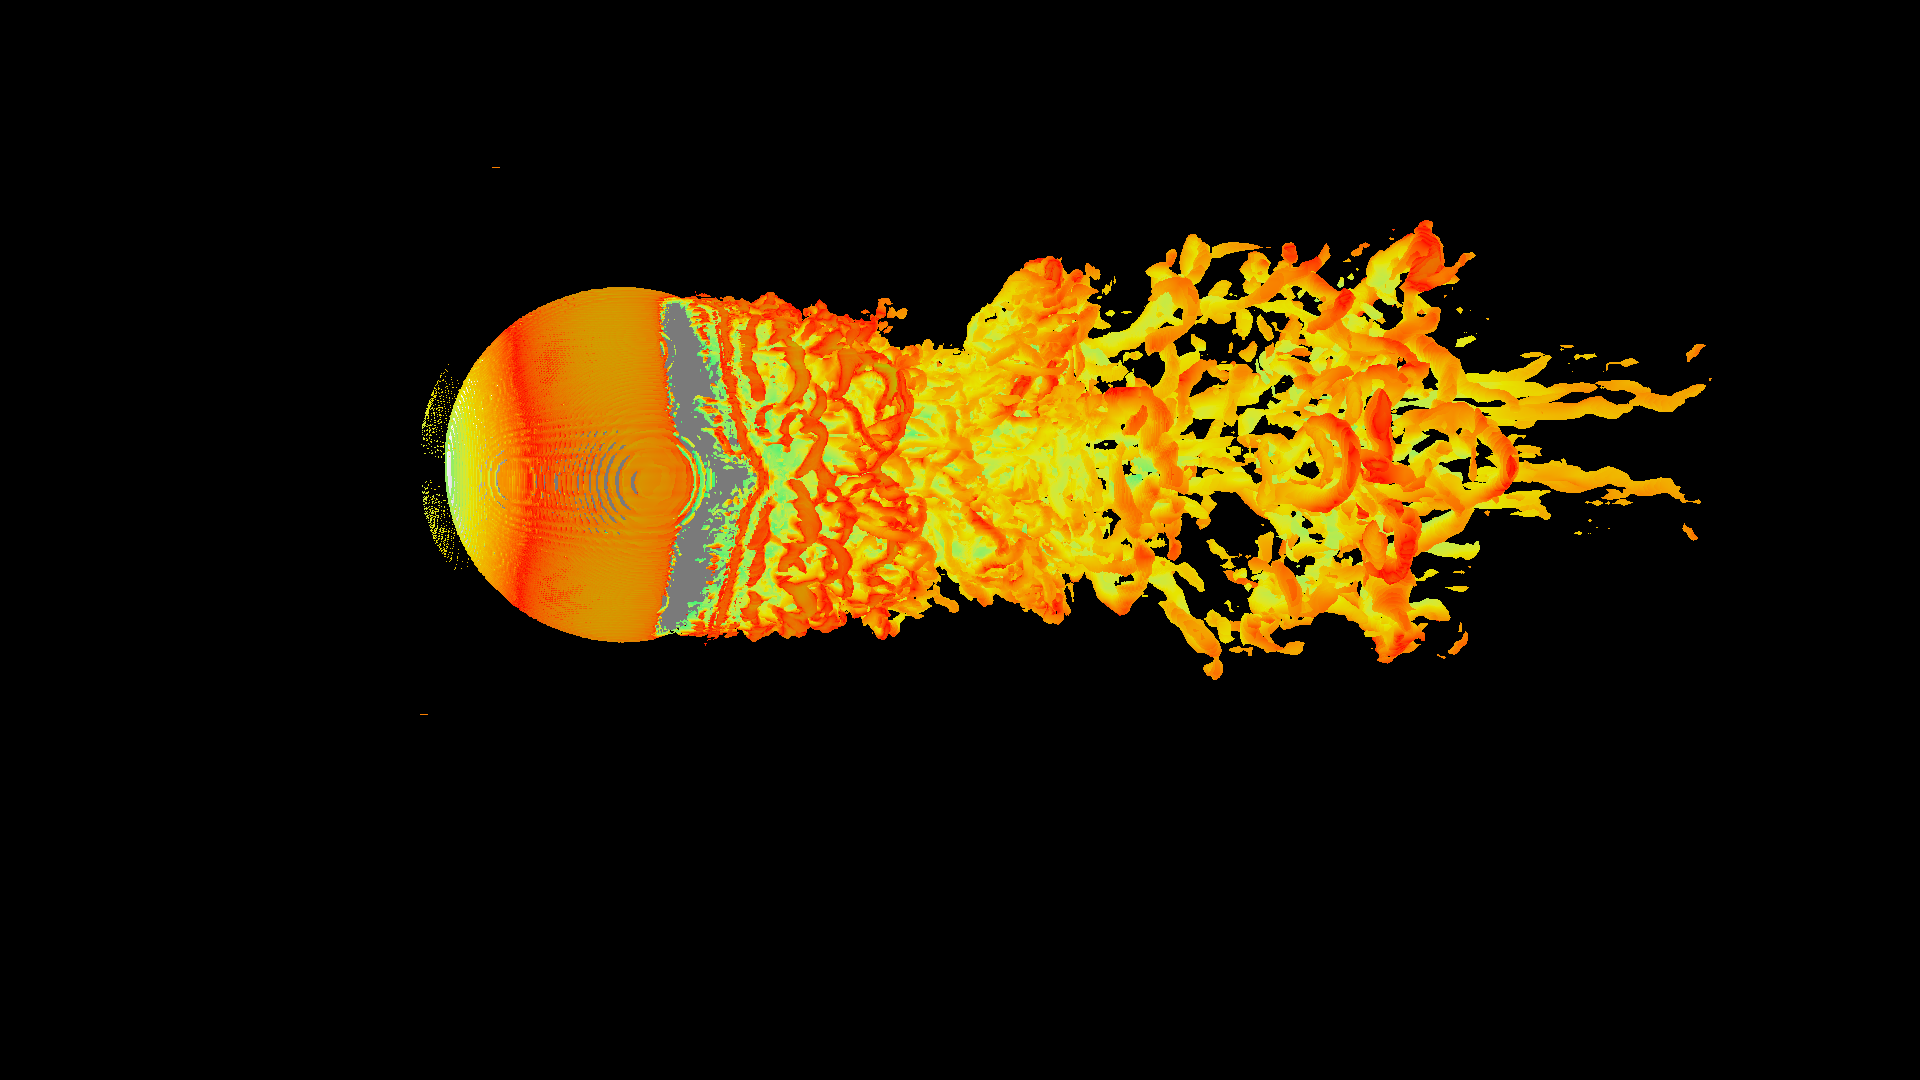
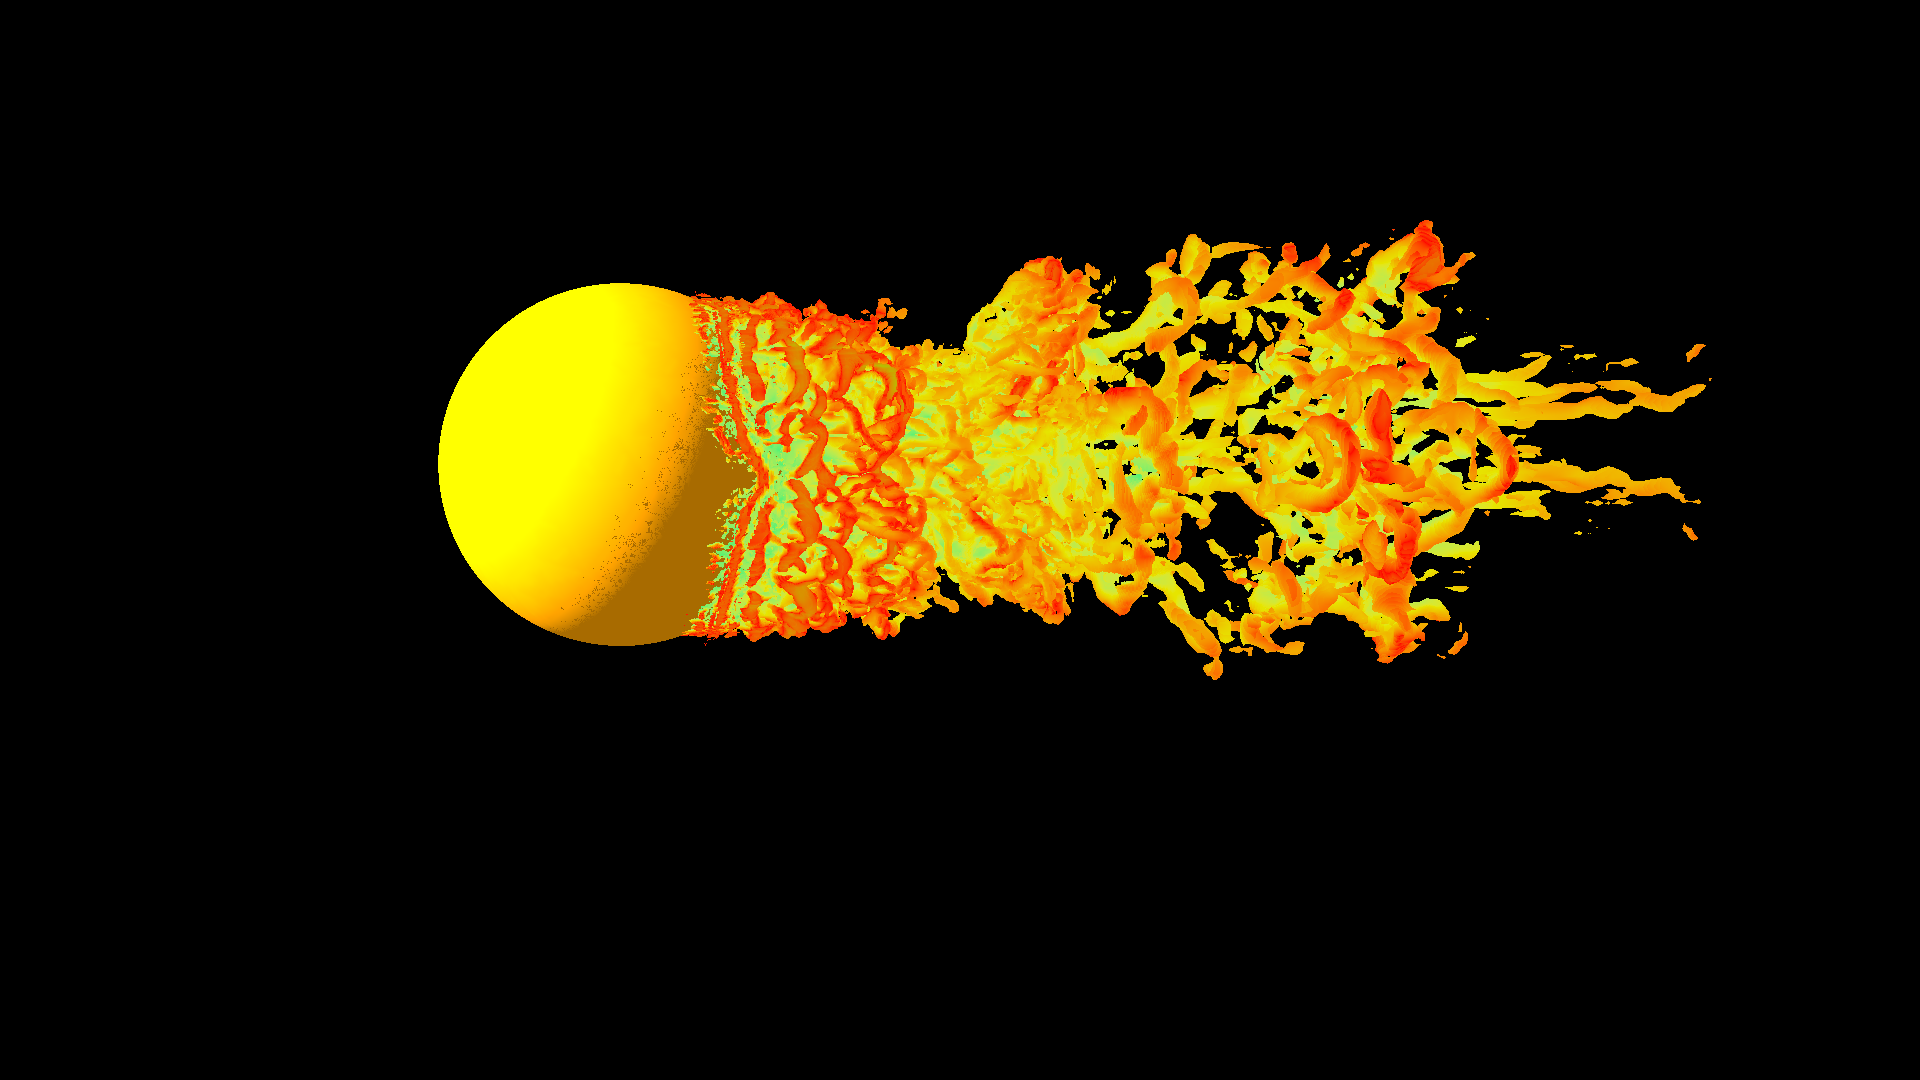
abing

Changed region(s): [[0.2188, 0.2444, 0.4062, 0.6111]]

diff --git a/src/integrator.cpp b/src/integrator.cpp
@@ -13,6 +13,8 @@ void Integrator::render() const {
         std::cout << grid.aabb.lower_bnd << " " << grid.aabb.upper_bnd << std::endl;
     }
     int cnt = 0;
+    scene->grids[0].aabb.adjustLow(Vec3f(5, 0, 0));
+    std::cout << 1 << std::endl;
 #pragma omp parallel for schedule(guided, 2), default(none), shared(cnt, resolution)
     for (int dx = 0; dx < resolution.x(); dx++) {
 #pragma omp atomic
@@ -27,7 +29,7 @@ void Integrator::render() const {
             if (scene->sphere.aabb.intersect(ray, t0, t1)) {
                 if (scene->sphere.intersect(ray, interaction)) {
                     t_max = interaction.dist;
-                    phongColor = radiance(ray, interaction);
+                    phongColor = radiance(ray, interaction, Vec3f{4, 1.5, 0});
                 }
             }
             if (scene->grids[0].aabb.intersect(ray, t0, t1)) {
@@ -36,6 +38,8 @@ void Integrator::render() const {
                 if (colorOpacity.second < 1 - 1e-3) {
                     L += phongColor;
                 }
+            } else {
+                L += phongColor;
             }
 
             camera->getImage()->setPixel(dx, dy, L);
@@ -92,7 +96,8 @@ std::pair<Vec3f, float> Integrator::radiance(Ray &ray, float t0, float t1) const
 
 Vec3f Integrator::radiance(Ray &ray, Interaction &interaction, Vec3f objColor) const {
     Vec3f radiance;
-    Vec3f ambient{0.20, 0.20, 0.20};
+    Vec3f ambient(objColor);
+    ambient /= 10;
     Vec3f diffuse{0, 0, 0};
     Vec3f specular{0, 0, 0};
     Ray shadow_ray{interaction.pos, -scene->lightDir};
@@ -104,7 +109,7 @@ Vec3f Integrator::radiance(Ray &ray, Interaction &interaction, Vec3f objColor) c
         diffuse += diff * objColor;
         if (lightDir.dot(interaction.normal) > 0) {
             Vec3f reflectDir = -lightDir - 2.0f * interaction.normal.dot(-lightDir) * interaction.normal;
-            float spec = (float) std::pow(std::max(viewDir.dot(reflectDir), 0.0f), 64);
+            float spec = (float) std::pow(std::max(viewDir.dot(reflectDir), 0.0f), 32);
             specular += spec * objColor;
         }
     }

diff --git a/src/main.cpp b/src/main.cpp
@@ -12,18 +12,16 @@ int main() {
     std::vector<Vec3fGrid::Ptr> VectorGrids = Reader::readGrids("dataset/multi-res big.vdb");
     std::vector<vdbGrid> ScalarGrids = util::convertVectorGridsToScalarGrids(VectorGrids);
 
-    auto sphere = Reader::loadObj("dataset/sphere.obj", Vec3f(5, 2, 3), 4.0 / 3.0);
-//    util::applyTransform(sphere, Vec3f(5, 2, 3), 4.0 / 3.0);
+    auto sphere = Reader::loadObj("dataset/sphere.obj", Vec3f(5, 2, 3), 4.2 / 3.0);
 
     std::shared_ptr<ImageRGB> image = std::make_shared<ImageRGB>(1920, 1080);
-//    Vec3f(10,0,-10)
     Camera cam(Vec3f(3, 3.2, 15), 19.5, 1, Vec3f(10,0,-10), Vec3f(0, 1, 0), image);
     Scene scene;
     scene.setGrids(ScalarGrids);
     scene.setVectorGrids(VectorGrids);
     scene.genQGrids();
     scene.setSphere(sphere);
-    scene.setLight(Vec3f{10, -5, 10}, Vec3f{1, 1, 1});
+    scene.setLight(Vec3f{10, -5, -2}, Vec3f{1, 1, 1});
     Integrator integrator(std::make_shared<Camera>(cam), std::make_shared<Scene>(scene));
     std::cout << "Start Rendering..." << std::endl;
     auto start = std::chrono::steady_clock::now();

diff --git a/src/AABB.cpp b/src/AABB.cpp
@@ -48,6 +48,10 @@ bool AABB::inAABB(Vec3f point) const {
            point[2] < upper_bnd[2];
 }
 
+void AABB::adjustLow(Vec3f shift) {
+    lower_bnd += shift;
+}
+
 vdbGrid::vdbGrid(const floatGrid::Ptr &grid) : grid(grid), aabb(grid), dx(float(grid->transform().voxelSize()[0])) {
 //    auto min_max = openvdb::tools::minMax(grid->tree());
     grid->evalMinMax(min_value, max_value);

diff --git a/include/AABB.h b/include/AABB.h
@@ -18,6 +18,8 @@ struct AABB {
     [[nodiscard]] bool isOverlap(const AABB &other) const;
 
     [[nodiscard]] bool inAABB(Vec3f point) const;
+
+    void adjustLow(Vec3f shift);
 };
 
 struct vdbGrid {
